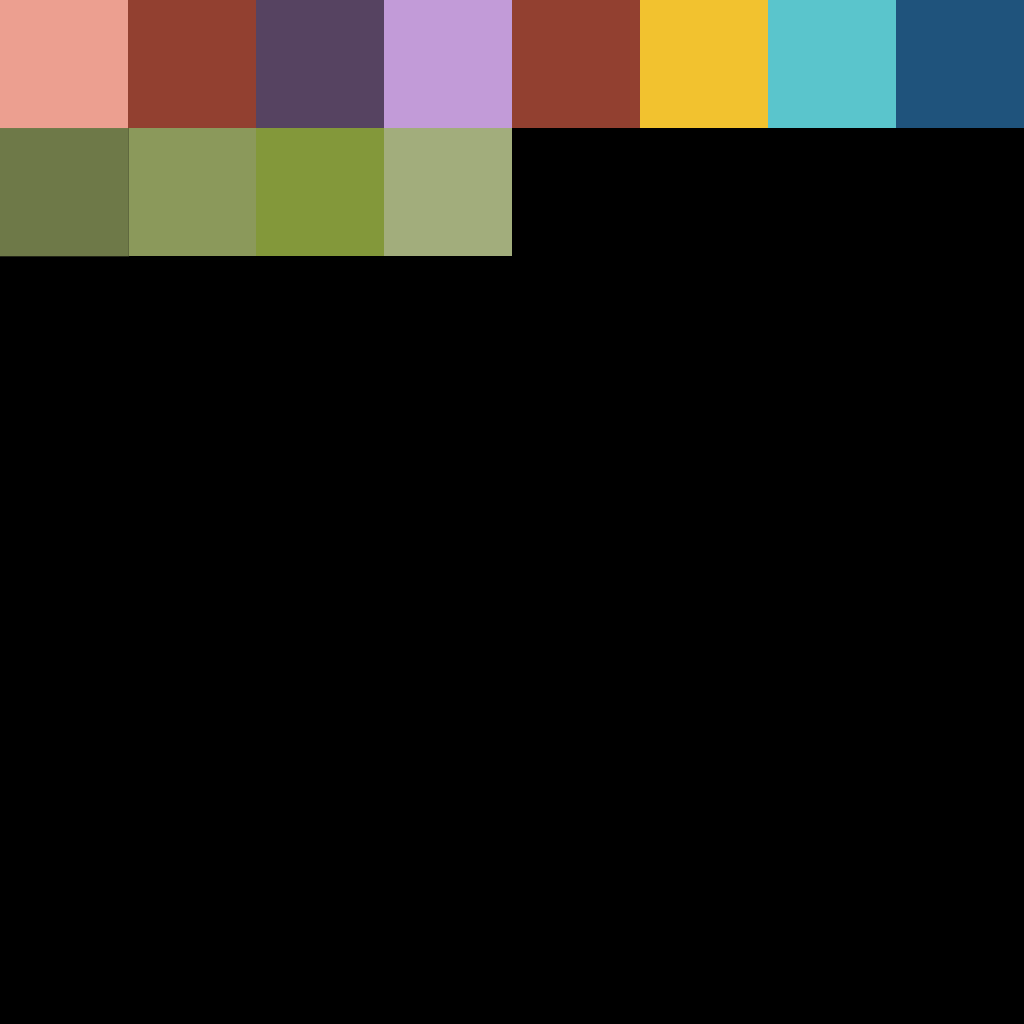
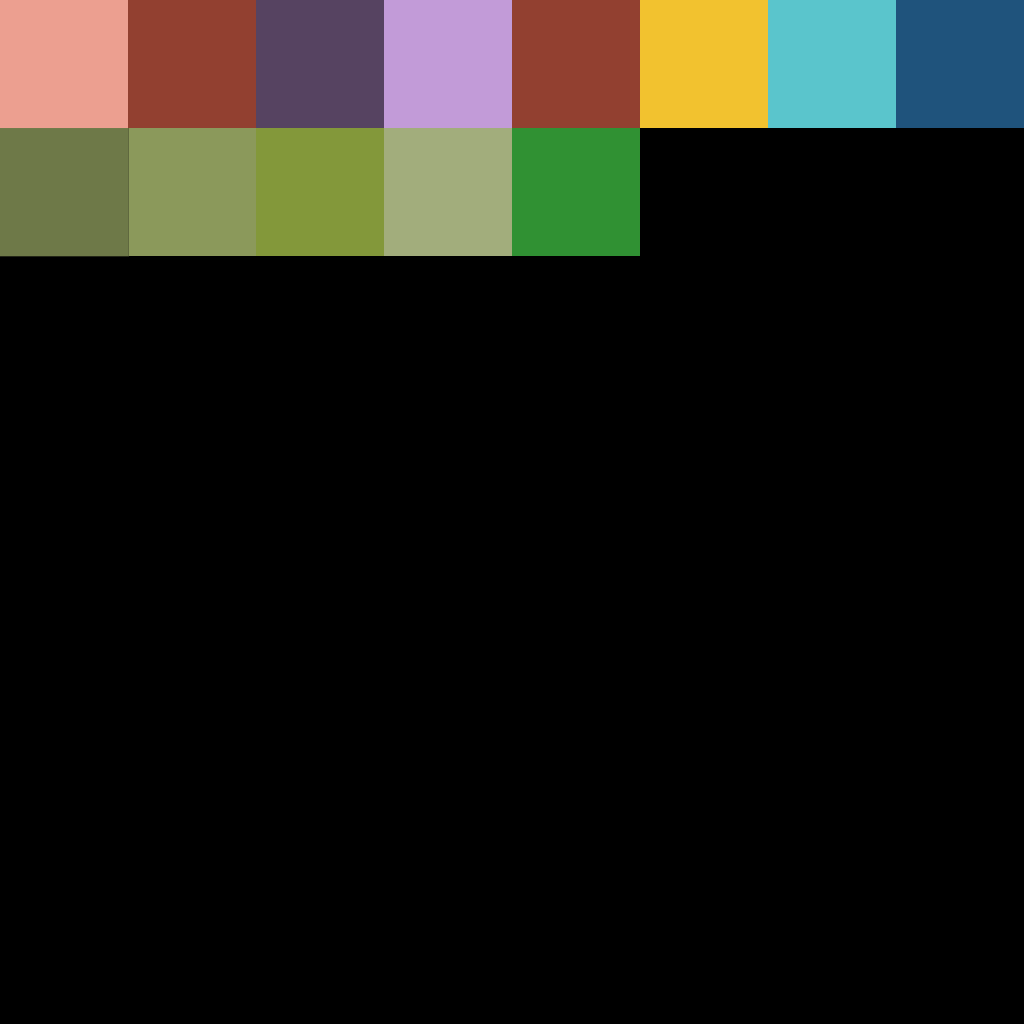
Added Passthrough Tile logic

Changed region(s): [[0.5, 0.125, 0.625, 0.25]]

diff --git a/OpenGL_Tutorial_01/Map.cpp b/OpenGL_Tutorial_01/Map.cpp
@@ -32,7 +32,7 @@ bool Map::Load(const std::string_view filepath, std::map<MESH, std::shared_ptr<M
         case 'O': // o is a regular tile AND passthrough
         {
             auto tile = std::make_unique<Tile>();
-            tile->Load(meshes[MESH::TILE_BASE], shader, tex);
+            tile->Load(meshes[MESH::TILE_PASSTHROUGH], shader, tex);
             tile->setId(tileID); //tile ids are just numbers from 0 to n.
             tile->setIsPassThrough(true);
             tiles.push_back(std::move(tile));
@@ -65,7 +65,7 @@ bool Map::Load(const std::string_view filepath, std::map<MESH, std::shared_ptr<M
         case 'S': // s is starting position AND passthrough
         {
             auto tile = std::make_unique<Tile>();
-            tile->Load(meshes[MESH::TILE_START], shader, tex);
+            tile->Load(meshes[MESH::TILE_START_PASSTHROUGH], shader, tex);
             tile->setId(tileID); //tile ids are just numbers from 0 to n.
             tile->setIsFirst(true);
             tile->setIsPassThrough(true);
@@ -174,6 +174,7 @@ bool Map::checkIfAllTilesTraversed() const
 {
     return std::all_of(tiles.begin(), tiles.end(), [](const std::unique_ptr<Tile>& tile)
         {
+
             return tile->getIsIntersectedOnce() == true;
         });
 }
@@ -187,9 +188,11 @@ bool Map::checkMapForLose() const
         isInterceptingLastTile = (*currentTileIndex)->getIsLast() == true;
     }
 
-    bool hasInterceptedATileTwice = std::any_of(tiles.begin(), tiles.end(), [](const std::unique_ptr<Tile>& tile) {
+    bool hasInterceptedATileTwice = std::any_of(tiles.begin(), tiles.end(), [](const std::unique_ptr<Tile>& tile) 
+        {
         //If counter is greater than 1 then the player has intersected the same tile twice
-        return tile->getIntersectCounter() > 1;
+            if (tile->getIsPassThrough() == true) return false;
+            return tile->getIntersectCounter() > 1;
         });
 
     return isInterceptingLastTile || hasInterceptedATileTwice;

diff --git a/OpenGL_Tutorial_01/ResourceLoader.cpp b/OpenGL_Tutorial_01/ResourceLoader.cpp
@@ -36,6 +36,16 @@ bool ResourceLoader::LoadResources()
 
 	meshes.insert(std::make_pair(MESH::TILE_BLOCK, std::make_shared<Mesh>(OBJLoader::vertices, OBJLoader::uvs, OBJLoader::normals)));
 
+	if (!OBJLoader::loadOBJ("Resources\\Models\\Tile_Passthrough.obj"))
+		return false;
+
+	meshes.insert(std::make_pair(MESH::TILE_PASSTHROUGH, std::make_shared<Mesh>(OBJLoader::vertices, OBJLoader::uvs, OBJLoader::normals)));
+
+	if (!OBJLoader::loadOBJ("Resources\\Models\\Tile_Start_Passthrough.obj"))
+		return false;
+
+	meshes.insert(std::make_pair(MESH::TILE_START_PASSTHROUGH, std::make_shared<Mesh>(OBJLoader::vertices, OBJLoader::uvs, OBJLoader::normals)));
+
 	//ENVIRONMENT
 	if (!OBJLoader::loadOBJ("Resources\\Models\\Ground.obj"))
 		return false;

diff --git a/OpenGL_Tutorial_01/LevelManager.cpp b/OpenGL_Tutorial_01/LevelManager.cpp
@@ -15,12 +15,12 @@ void LevelManager::LoadLevel(const Scene type)
 		Game::gameStateMachine->ChangeLevel(new GameOver());
 	}
 
-	if (type == Scene::LEVEL)
-	{
-		Game::gameStateMachine->ChangeLevel(new Level5());
-	}
+	//if (type == Scene::LEVEL)
+	//{
+	//	Game::gameStateMachine->ChangeLevel(new Level5());
+	//}
 
-	/*if (type == Scene::LEVEL) {
+	if (type == Scene::LEVEL) {
 		switch (levelCounter) 
 		{
 			case 1:
@@ -35,6 +35,9 @@ void LevelManager::LoadLevel(const Scene type)
 			case 4:
 				Game::gameStateMachine->ChangeLevel(new Level4());
 			break;
+			case 5:
+				Game::gameStateMachine->ChangeLevel(new Level5());
+			break;
 		}
-	}*/
+	}
 }

diff --git a/OpenGL_Tutorial_01/Level4.cpp b/OpenGL_Tutorial_01/Level4.cpp
@@ -125,7 +125,8 @@ void Level4::Update(float deltatime) {
 		if (map->checkIfAllTilesTraversed()) {
 			if (map->checkMapForWin()) {
 				std::cout << "You win the game!\n";
-				LevelManager::LoadLevel(Scene::GAME_OVER);
+				LevelManager::levelCounter++;
+				LevelManager::LoadLevel(Scene::LEVEL);
 				break;
 			}
 			else {

diff --git a/OpenGL_Tutorial_01/ResourceLoader.h b/OpenGL_Tutorial_01/ResourceLoader.h
@@ -11,6 +11,8 @@ enum class MESH {
 	TILE_START,
 	TILE_GOAL,
 	TILE_BLOCK,
+	TILE_PASSTHROUGH,
+	TILE_START_PASSTHROUGH,
 	PLAYER,
 	GROUND,
 	GRASS
